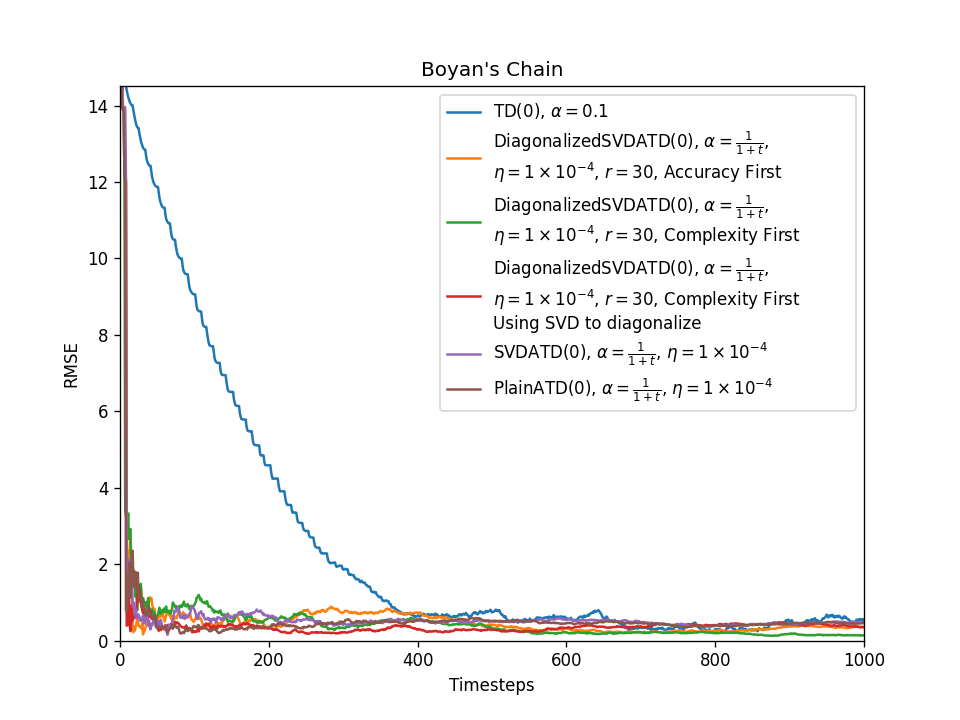
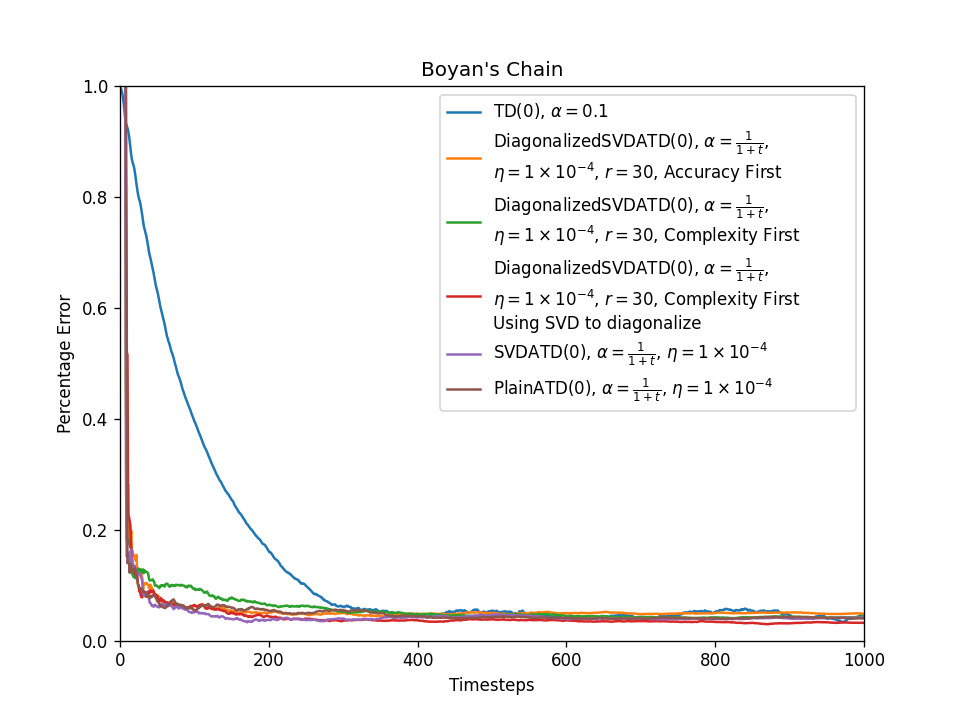
Changed the RMSE to Percentage Error.

diff --git a/algorithm_test/boyans_chain.py b/algorithm_test/boyans_chain.py
@@ -14,10 +14,19 @@ import matplotlib.pyplot as plt
 
 observations = [Backend.create_matrix_func(np.max(
     np.vstack(((1 - np.abs(12 - 4 * np.arange(4) - N) / 4), np.zeros(4))),
-    axis=0), dtype=Backend.float) for N in range(13)]
+    axis=0), dtype=Backend.float32) for N in range(13)]
 rng = np.random.default_rng()
 
-w_optimal = Backend.arange(-24, 8, 8)
+w_optimal = Backend.arange(-24, 8, 8, dtype=Backend.float32)
+
+
+def evaluate(w, w_pi):
+    observation_count = 0
+    absolute_error = 0
+    for observation in observations[1:]:  # Skip the first terminal state.
+        absolute_error += abs((w @ observation - w_pi @ observation) / (w_pi @ observation))
+        observation_count += 1
+    return absolute_error / observation_count
 
 
 def play_game(agent, total_timesteps=1000, iterations=100):
@@ -34,7 +43,7 @@ def play_game(agent, total_timesteps=1000, iterations=100):
             observation = observations[pos]
 
             while timestep <= total_timesteps:
-                record.append(Backend.sqrt(Backend.mean((agent.w - w_optimal) ** 2)))
+                record.append(evaluate(agent.w, w_optimal))
                 pos -= rng.choice([1, 2]) if pos > 1 else 1
                 next_observation = observations[pos]
                 timestep += 1
@@ -54,30 +63,30 @@ def play_game(agent, total_timesteps=1000, iterations=100):
 plt.figure(dpi=120, figsize=(8, 6))
 
 plt.plot(play_game(agent=TDAgent(lr=0.1, lambd=0, observation_space_n=4, action_space_n=2),
-                   iterations=1), label="TD(0), $\\alpha=0.1$")
+                   iterations=10), label="TD(0), $\\alpha=0.1$")
 plt.plot(play_game(agent=DiagonalizedSVDATDAgent(k=30, eta=1e-4, lambd=0, observation_space_n=4,
                                                  action_space_n=2),
-                   iterations=1),
+                   iterations=10),
          label="DiagonalizedSVDATD(0), $\\alpha=\\frac{1}{1+t}$, \n$\\eta=1\\times10^{-4}$, $r=30$, Accuracy First")
 plt.plot(play_game(agent=DiagonalizedSVDATDAgent(k=30, eta=1e-4, lambd=0, observation_space_n=4,
                                                  action_space_n=2, svd_diagonalizing=False,
                                                  w_update_emphasizes="complexity"),
-                   iterations=1),
+                   iterations=10),
          label="DiagonalizedSVDATD(0), $\\alpha=\\frac{1}{1+t}$, \n$\\eta=1\\times10^{-4}$, $r=30$, Complexity First")
 plt.plot(play_game(agent=DiagonalizedSVDATDAgent(k=30, eta=1e-4, lambd=0, observation_space_n=4,
                                                  action_space_n=2, svd_diagonalizing=True,
                                                  w_update_emphasizes="complexity"),
-                   iterations=1),
+                   iterations=10),
          label="DiagonalizedSVDATD(0), $\\alpha=\\frac{1}{1+t}$, \n$\\eta=1\\times10^{-4}$, $r=30$, Complexity First\
           \nUsing SVD to diagonalize")
 plt.plot(play_game(agent=SVDATDAgent(eta=1e-4, lambd=0, observation_space_n=4, action_space_n=2),
-                   iterations=1), label="SVDATD(0), $\\alpha=\\frac{1}{1+t}$, $\\eta=1\\times10^{-4}$")
+                   iterations=10), label="SVDATD(0), $\\alpha=\\frac{1}{1+t}$, $\\eta=1\\times10^{-4}$")
 plt.plot(play_game(agent=PlainATDAgent(eta=1e-4, lambd=0, observation_space_n=4, action_space_n=2),
-                   iterations=1), label="PlainATD(0), $\\alpha=\\frac{1}{1+t}$, $\\eta=1\\times10^{-4}$")
+                   iterations=10), label="PlainATD(0), $\\alpha=\\frac{1}{1+t}$, $\\eta=1\\times10^{-4}$")
 plt.legend()
 plt.title("Boyan's Chain")
 plt.xlabel("Timesteps")
-plt.ylabel("RMSE")
-plt.ylim(0, 14.5)
+plt.ylabel("Percentage Error")
+plt.ylim(0, 1)
 plt.xlim(0, 1000)
 plt.savefig("./figures/boyans_chain.png", format="png")

diff --git a/algorithm_test/random_walk.py b/algorithm_test/random_walk.py
@@ -13,9 +13,18 @@ from tqdm import trange
 import matplotlib.pyplot as plt
 
 N = 7
-v_true = Backend.arange(N) / (N - 1)
+v_true = Backend.arange(N)[1:N] / (N - 1)
 v = None
-rng=np.random.default_rng()
+rng = np.random.default_rng()
+
+
+def evaluate(w):
+    observation_count = 0
+    absolute_error = 0
+    for observation in Backend.eye(N)[1:N]:  # Generate the one-hot inputs.
+        absolute_error += abs((w @ observation - v_true[observation_count]) / v_true[observation_count])
+        observation_count += 1
+    return absolute_error / observation_count
 
 
 def play_game(agent, episodes=100, iterations=100):
@@ -33,7 +42,7 @@ def play_game(agent, episodes=100, iterations=100):
             pos = (N - 1) / 2
             observation = Backend.eye(N)[int((N - 1) / 2)]
             agent.reset()
-            record.append(Backend.sqrt(Backend.mean((agent.w[1:N - 1] - v_true[1:N - 1]) ** 2)))
+            record.append(evaluate(agent.w))
 
             while True:
                 pos += rng.choice((-1, 1))
@@ -59,10 +68,9 @@ plt.figure(dpi=120, figsize=(8, 6))
 
 plt.plot(play_game(agent=TDAgent(lr=0.1, lambd=0.5, observation_space_n=7, action_space_n=2),
                    iterations=10, episodes=100), label="TD(0.5), $\\alpha=0.1$")
-plt.plot(play_game(
-    agent=DiagonalizedSVDATDAgent(k=30, eta=1e-4, lambd=0.5, observation_space_n=7, action_space_n=2),
-    iterations=10, episodes=100),
-    label="DiagonalizedSVDATD(0.5), $\\alpha=\\frac{1}{1+t}$, \n$\\eta=1\\times10^{-4}$, $r=30$, Accuracy First")
+plt.plot(play_game(agent=DiagonalizedSVDATDAgent(k=30, eta=1e-4, lambd=0.5, observation_space_n=7, action_space_n=2),
+                   iterations=10, episodes=100),
+         label="DiagonalizedSVDATD(0.5), $\\alpha=\\frac{1}{1+t}$, \n$\\eta=1\\times10^{-4}$, $r=30$, Accuracy First")
 plt.plot(play_game(agent=DiagonalizedSVDATDAgent(k=30, eta=1e-4, lambd=0.5, observation_space_n=7,
                                                  action_space_n=2, svd_diagonalizing=False,
                                                  w_update_emphasizes="complexity"),
@@ -81,7 +89,9 @@ plt.plot(play_game(agent=PlainATDAgent(eta=1e-4, lambd=0.5, observation_space_n=
                    iterations=10, episodes=100),
          label="PlainATD(0.5), $\\alpha=\\frac{1}{1+t}$, $\\eta=1\\times10^{-4}$")
 plt.legend()
-plt.title("Random Walking")
+plt.title("Random Walk")
 plt.xlabel("Episode")
-plt.ylabel("RMSE")
+plt.ylabel("Percentage Error")
+plt.xlim(0, 100)
+plt.ylim(0.2, 1)
 plt.savefig("./figures/random_walk.png", format="png")
